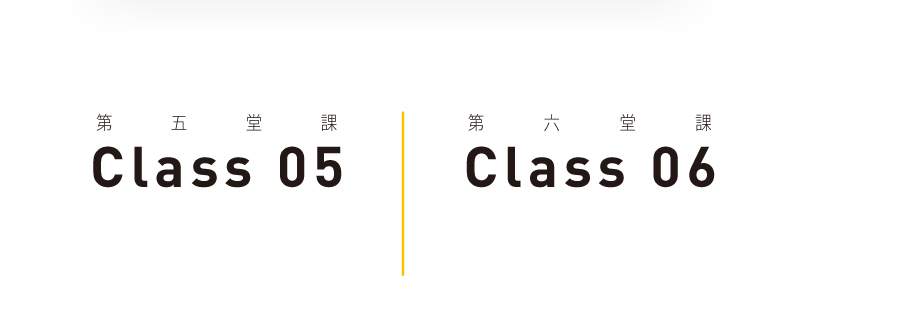
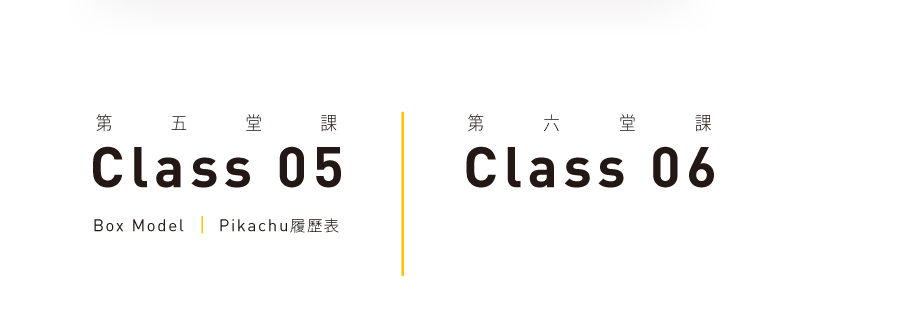
0506

diff --git a/Class_05/Pikachu/index.html b/Class_05/Pikachu/index.html
@@ -1,0 +1,193 @@
+<!DOCTYPE html>
+<html lang="en">
+
+<head>
+    <meta charset="UTF-8">
+    <meta http-equiv="X-UA-Compatible" content="IE=7">
+    <meta:renderer></meta:renderer>
+    <meta name="viewport"
+          content="width=device-width, user-scalable=no, initial-scale=1.0, maximum-scale=1.0, minimum-scale=1.0">
+    <meta:author></meta:author>
+    <meta name="keywords" content="Keyword 1,Keyword 2">
+    <meta name="description" content="description">
+    <link rel="shortcut icon" type="image/x-icon" href="favicon.ico">
+    <link rel="apple-touch-icon" href="favicon.png">
+    <title>Pikachu履歷表</title>
+    <link href='https://fonts.googleapis.com/css?family=Dosis' rel='stylesheet' type='text/css'>
+    <style type="text/css">
+ 
+        body {
+            position: relative;
+            background-color: #f6e652;
+            width: 97%;
+            font-family:'Dosis', arial;
+            font-size: 16pt;
+            padding: 5px;
+        }
+
+        .bg {
+            box-sizing: border-box;
+            width: 920px;
+            height: 920px;
+            background-color: #f6e652;
+            position: relative;
+            margin: auto;
+
+        }
+
+        .d01 {
+            box-sizing: border-box;
+            background-color: #e65a41;
+            width: 300px;
+            height: 300px;
+            border-radius: 50%;
+            position: absolute;
+            padding-top: 90px;
+            padding: 5%;
+            margin: auto;
+            text-align: center;
+            top: -75px;
+            left: 130px;
+            color: #f6e652;
+            font-size: 0.8em;
+        }
+
+        .d02 {
+            box-sizing: border-box;
+            background-color: #9c5200;
+            width: 270px;
+            height: 270px;
+            border-radius: 50%;
+            position: absolute;
+            padding-top: 100px;
+            top: 250px;
+            left: 0px;
+            color: #fff;
+            font-size: 0.7em;
+        }
+
+        .d02 table {
+            margin: auto;
+        }
+
+        .d03 {
+            box-sizing: border-box;
+            background-color: #fff;
+            width: 500px;
+            height: 500px;
+            padding-top: 100px;
+            border-radius: 50%;
+            position: absolute;
+            top: 200px;
+            left: 230px;
+            text-align: center;
+            color: #9c5200;
+            font-size: 0.8em;
+        }
+
+        .d03 h2 {
+            font-weight: bold;
+            font-size: 1.6em;
+        }
+
+        .d04 {
+            box-sizing: border-box;
+            background-color: #fff;
+            width: 190px;
+            height: 190px;
+            padding-top: 30px;
+            padding-left: 30px;
+            border-radius: 50%;
+            position: absolute;
+            top: 100px;
+            left: 580px;
+        }
+
+        .d05 {
+            box-sizing: border-box;
+            background-color: #0089A7;
+            width: 90px;
+            height: 90px;
+            padding-top: 10px;
+            border-radius: 50%;
+            position: fixed;
+            bottom: 20%;
+            left: 80%;
+            text-align: center;
+            font-style: italic;
+            color: #fff;
+            font-size: 0.4em;
+        }
+
+        .d06 {
+            box-sizing: border-box;
+            background-color: #e65a41;
+            width: 170px;
+            height: 170px;
+            padding-top: 80px;
+            border-radius: 50%;
+            position: absolute;
+            top: 730px;
+            left: 250px;
+            text-align: center;
+            color: #f6e652;
+            font-size: 0.4em;
+        }
+
+    </style>
+
+</head>
+
+<body>
+<div class="bg">
+
+    <div class="d01">
+        <img src="flash.png" width="120">
+        <h1 class="title">
+            Pikachu</h1>
+    </div>
+
+    <div class="d02">
+        <table>
+            <tr>
+                <td><img src="mail.png" width="20"></td>
+                <td>pikachu@qmail.com</td>
+            </tr>
+            <tr>
+                <td><img src="tele.png" width="20"></td>
+                <td>+886-952673410</td>
+            </tr>
+            <tr>
+                <td><img src="ad.png" width="20"></td>
+                <td>No.25, Rd. Pokopoko,
+                    <br> Tolcyo, Jaqan
+                </td>
+            </tr>
+        </table>
+    </div>
+
+    <div class="d03">
+        <h2>Hello, I’m Pikachu</h2>
+        <br> I’m the co-founder of an online programmers community
+        <br> situated on the world wide web.
+        <br>
+        <br> My primary skill is solid knowledge of end-to-end web development
+        <br> using CSS, HTML, JavaScript and PHP.
+        <br>
+        <br> I have very good hygiene and outstanding hair :)
+        <br>
+        <br> 
+    </div>
+    <div class="d04">
+        <img src="pika2.jpg" width="130">
+    </div>
+    <div class="d05">
+        <p>follow me</p>
+        <a href="https://www.facebook.com/pages/%E7%9A%AE%E5%8D%A1%E4%B8%98/104031079632855?fref=ts">
+            <img src="fb.png" width="30"></a>
+    </div>
+    <div class="d06">© 2023 by Pikachu. Proudly created by Celeste</div>
+</div>
+</body>
+
+</html>

diff --git a/index0503.html b/index0503.html
@@ -14,18 +14,18 @@
 <body>
 
     <div>
-        <table width=100% height=1539 cellpadding="0" cellspacing="0" border="0" style="margin:0; padding:0; border-collapse:collapse;">
+        <table width=100% height=100% cellpadding="0" cellspacing="0" border="0">
             <tr>
                 <td valign="top" align="center" height="399">
                     <img src="Class-top.jpg" width="909" height="399" alt="Class-Top"
-                    style="box-shadow:0px 0px 0px orange;">
+                    style="box-shadow:0px 0px 0px orange; border-spacing:0; white-space:0; line-height:0">
                 </td>
             </tr>
 
             <tr>
                 <td valign="top" align="center" height="330">
                     <img src="Week_01.jpg" width="909" height="330" alt="Week 01"
-                    usemap="#Week01" style="box-shadow:0px 0px 0px orange;">
+                    usemap="#Week01" style="box-shadow:0px 0px 0px orange; border-spacing:0; white-space:0; line-height:0">
 
                     <map name="Week01">
 
@@ -49,7 +49,7 @@
             <tr>
                 <td valign="top" align="center" height="330" border-spacing="0">
                     <img src="Week_02.jpg" width="909" height="330" alt="Week 02"
-                    usemap="#Week02" style="box-shadow:0px 0px 0px orange">
+                    usemap="#Week02" style="box-shadow:0px 0px 0px orange; border-spacing:0; white-space:0; line-height:0">
 
                     <map name="Week02">
 
@@ -63,25 +63,9 @@
             </tr>
 
             <tr>
-                <td valign="top" align="center" height="330" border-spacing="0">
-                    <img src="Week_03.jpg" width="909" height="330" alt="Week 03"
-                    usemap="#Week03" style="box-shadow:0px 0px 0px orange;">
-
-                    <map name="Week03">
-
-                        <area shape="rect" coords=" x87 , y209 , x192 , y242" 
-                        href="http://kaienchang.github.io/Class_05/Box Model">
-
-                        <area shape="rect" coords=" x210 , y209 , x350 , y242" 
-                        href="http://kaienchang.github.io/Class_05/Pikachu">
-                    </map>
-                </td>
-            </tr>
-
-            <tr>
                 <td valign="top" align="center" height="150" border-spacing="0">
                     <img src="Class-bottom.jpg" width="909" height="150" alt="Class-Bottom"
-                    usemap="#Bottom" style="box-shadow:0px 0px 0px orange;">
+                    usemap="#Bottom" style="box-shadow:0px 0px 0px orange; border-spacing:0; white-space:0; line-height:0">
 
                     <map name="Bottom">
 
@@ -92,7 +76,7 @@
                         href="http://getusetu.wix.com/juedesign">
                     </map>  
                 </td>
-            </tr>            
+            </tr>             
         </table>
     </div>
 </body>

diff --git a/Class_05/Box Model/index.html b/Class_05/Box Model/index.html
@@ -1,0 +1,45 @@
+<html>
+  <head>
+    <title>Box Model</title>
+    <style type="text/css">
+
+    body {
+      font-family: Arial;
+    }
+
+    .border {
+       width: 400px;
+       border-color: white;
+       border-width: 2px;
+       border-style: dashed;
+       background: #a7cece;
+       padding: 10%;
+       padding-left: 15%;
+       margin: auto;
+       margin-top: 5%;
+       margin-left: 20px;
+       text-align: left;
+       line-height:30px;
+       background-image: url(images/001.png);
+       background-repeat: no-repeat;
+    }
+    </style>
+  </head>
+  <body>
+    <h1>Welcome to the "肥肉"</h1>
+  <img src="images/drinks.gif" alt="drinks.gif">
+    <p class=border>
+       Join us any evening for refreshing <a href="beverages/elixir.html">elixirs</a>
+       conversation and maybe a game or two of
+       <em>Dance Dance Revolution</em>.
+       Wireless access is always provided;
+       BYOWS (Bring your own web server).
+    </p>
+    <h2>Directions</h2>
+    <p>
+      You'll find us right in the center of downtown Webville.
+      If you need help finding us, check out our detailed directions.
+      Come join us!
+    </p>
+  </body>
+</html>

diff --git a/Class_05/Box Model/beverages/elixir.html b/Class_05/Box Model/beverages/elixir.html
@@ -1,0 +1,36 @@
+<html>
+  <head>
+    <title>Head First Lounge Elixirs</title>
+  </head>
+  <body>
+    <h1>Our Elixirs</h1>
+
+    <h2>Green Tea Cooler</h2>
+    <p>
+      <img src="green.jpg">
+      Chock full of vitamins and minerals, this elixir
+      combines the healthful benefits of green tea with
+      a twist of chamomile blossoms and ginger root.
+    </p>
+    <h2>Raspberry Ice Concentration</h2>
+    <p>
+      <img src="lightblue.jpg">
+      Combining raspberry juice with lemon grass,
+      citrus peel and rosehips, this icy drink
+      will make your mind feel clear and crisp.
+    </p>
+    <h2>Blueberry Bliss Elixir</h2>
+    <p>
+      <img src="blue.jpg">
+      Blueberries and cherry essence mixed into a base
+      of elderflower herb tea will put you in a relaxed
+      state of bliss in no time.
+    </p>
+    <h2>Cranberry Antioxidant Blast</h2>
+    <p>
+      <img src="red.jpg">
+      Wake up to the flavors of cranberry and hibiscus
+      in this vitamin C rich elixir.
+    </p>
+  </body>
+</html>

diff --git a/Class_05/Box Model/about/directions.html b/Class_05/Box Model/about/directions.html
@@ -1,0 +1,15 @@
+<html>
+  <head>
+    <title>Head First Lounge Directions</title>
+  </head>
+  <body>
+    <h1>Directions</h1>
+    <p>Take the 305 S exit to Webville - go 0.4 mi</p>
+    <p>Continue on 305 - go 12 mi</p>
+    <p>Turn right at Structure Ave N - go 0.6 mi</p>
+    <p>Turn right and head toward Structure Ave N - go 0.0 mi</p>
+    <p>Turn right at Structure Ave N - go 0.7 mi</p>
+    <p>Continue on Structure Ave S - go 0.2 mi</p>
+    <p>Turn right at SW Presentation Way - go 0.0 mi</p>
+  </body>
+</html>
